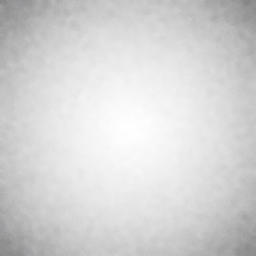
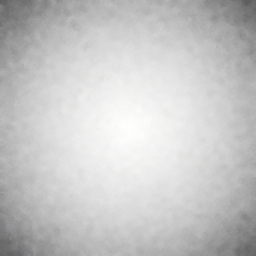
juiced-up vignette overlay

diff --git a/html5/src/penduinart.js b/html5/src/penduinart.js
@@ -713,7 +713,10 @@ function penduinSCENE(canvas, logicWidth, logicHeight,
 
 		// draw any vignette
 		if(vignette) {
+			ctx.save();
+			ctx.globalCompositeOperation = "overlay";
 			ctx.drawImage(vignette, 0, 0, canvas.width, canvas.height);
+			ctx.restore();
 		}
 
 		// draw any ghosting
